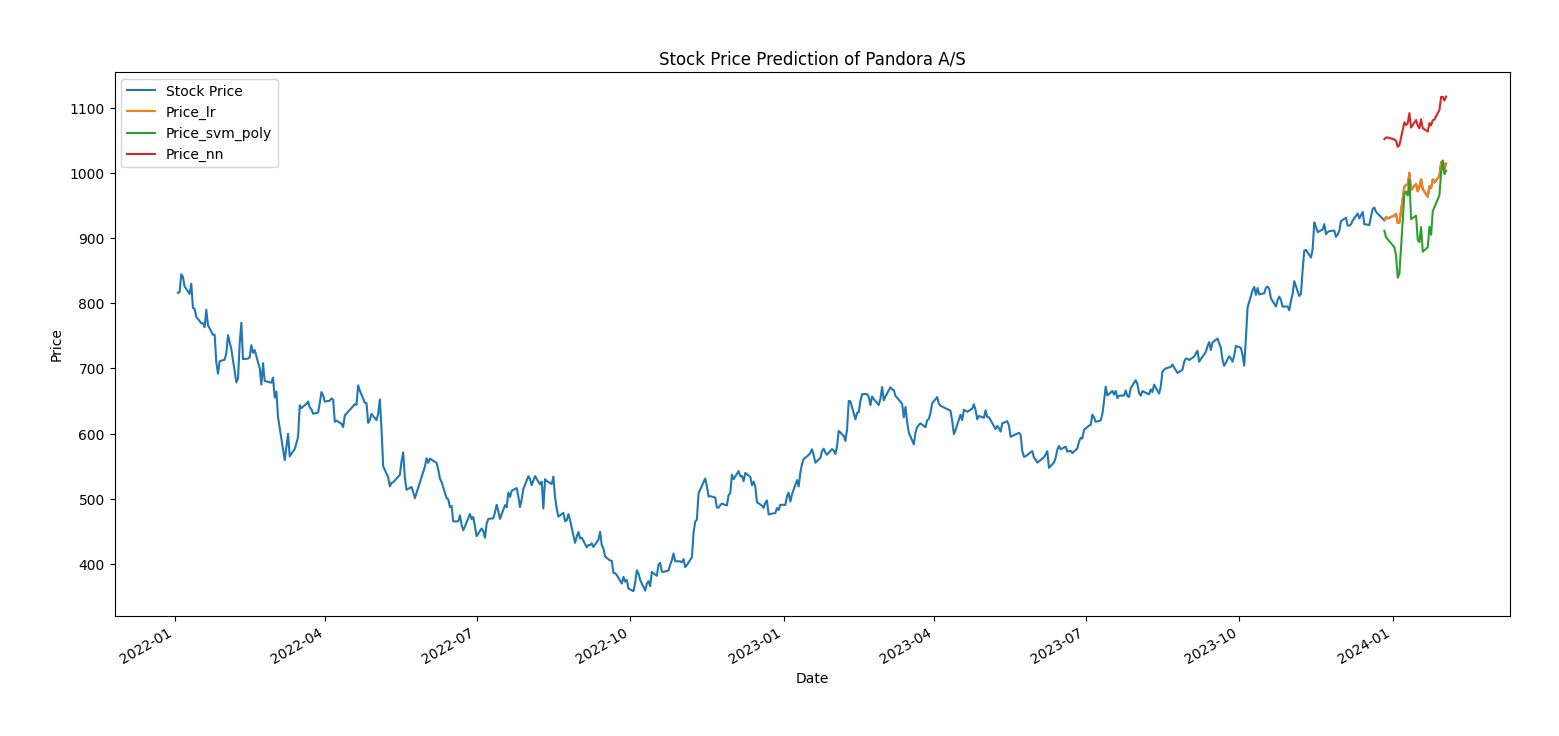
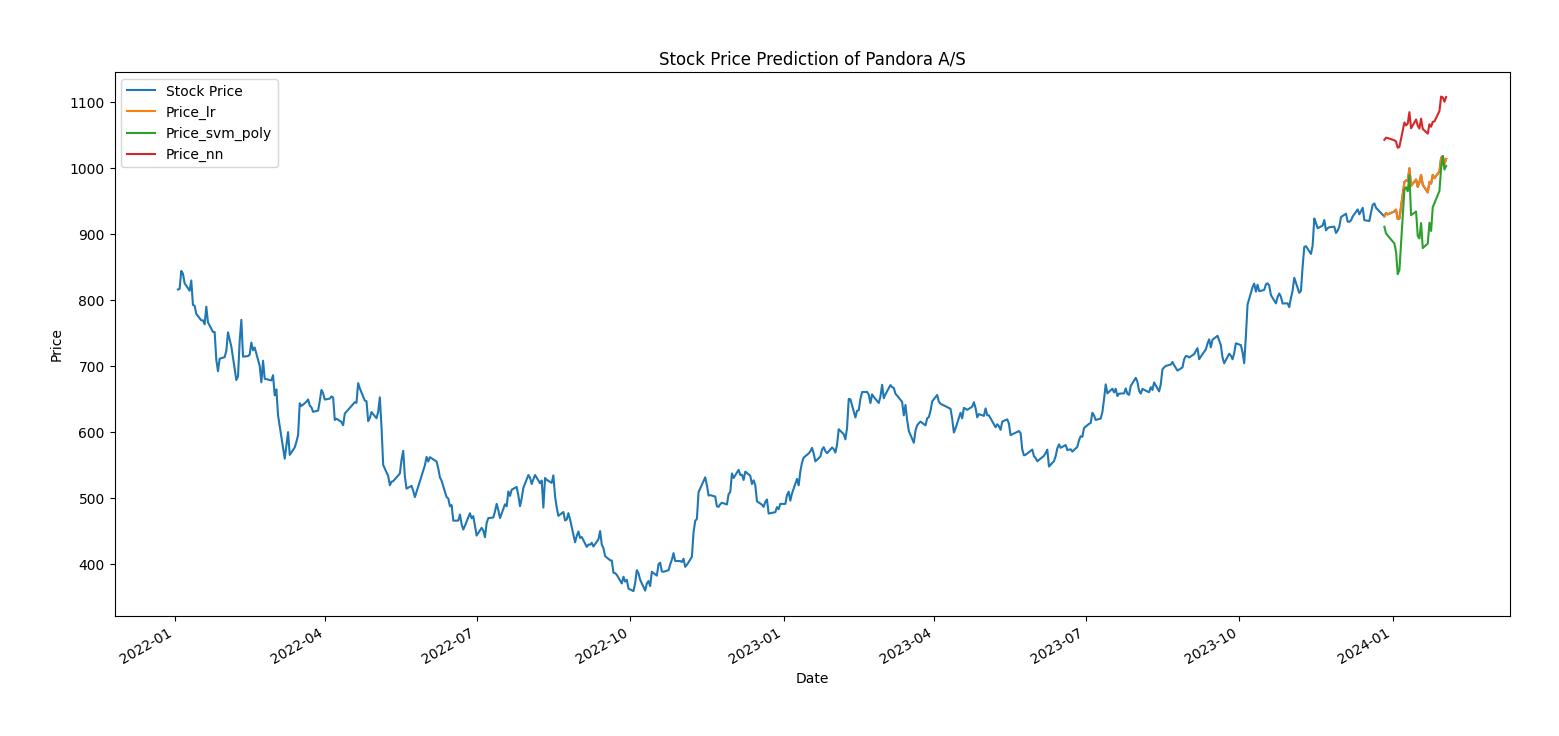
Tuned  hiden layers in NN model

diff --git a/ml_builder.py b/ml_builder.py
@@ -337,6 +337,14 @@ def neural_network_model(traning_dataset, test_dataset, prediction_dataset, hidd
     forecast_df = pd.DataFrame(forecast_dict)
     forecast_df = forecast_df.set_index("Date")
     # print(forecast_df)
+    # Create variable storing the model's equation
+    model_equation = "y = "
+    for feature in range(len(nn.coefs_[0])):
+        model_equation += f"{nn.coefs_[0][feature]} * {x_training_df.columns[feature]} + "
+    model_equation += f"{nn.intercepts_[0]}"
+    # Print the model's equation
+    print("The equation of the price prediction model is: ")
+    print(model_equation)
     predicted_return = ((forecast_df.iloc[-1]["Price_nn"] / forecast_df.iloc[0]["Price_nn"]) - 1) * 100
     if predicted_return > 0:
         print(f"The prediction expects a profitable return on: {predicted_return}%, over the next {len(forecast_df)} days.")
@@ -373,7 +381,7 @@ def predict_price(traning_dataset, test_dataset, prediction_dataset, stock_df):
     # dt_forecast = decision_tree_model(traning_dataset, test_dataset, prediction_dataset, stock_df)
     # # print(dt_forecast)
     # forecast_df = forecast_df.join(dt_forecast)
-    nn_forecast = neural_network_model(traning_dataset, test_dataset, prediction_dataset, 45, 60, 60, 45, 100, 1, stock_df)
+    nn_forecast = neural_network_model(traning_dataset, test_dataset, prediction_dataset, 70, 60, 50, 40, 100, 1, stock_df)
     # print(nn_forecast)
     forecast_df = forecast_df.join(nn_forecast)
     print(forecast_df)
@@ -419,7 +427,8 @@ def plot_graph(stock_data_df, forecast_data_df):
     # Save the graph
     try:
         plt.savefig(os.path.join(path, "generated_graphs", graph_name), bbox_inches="tight", pad_inches=0.5, transparent=False, format="png")
-        # plt.close()
+        plt.clf()
+        plt.close("all")
 
 
     # Show the graph
